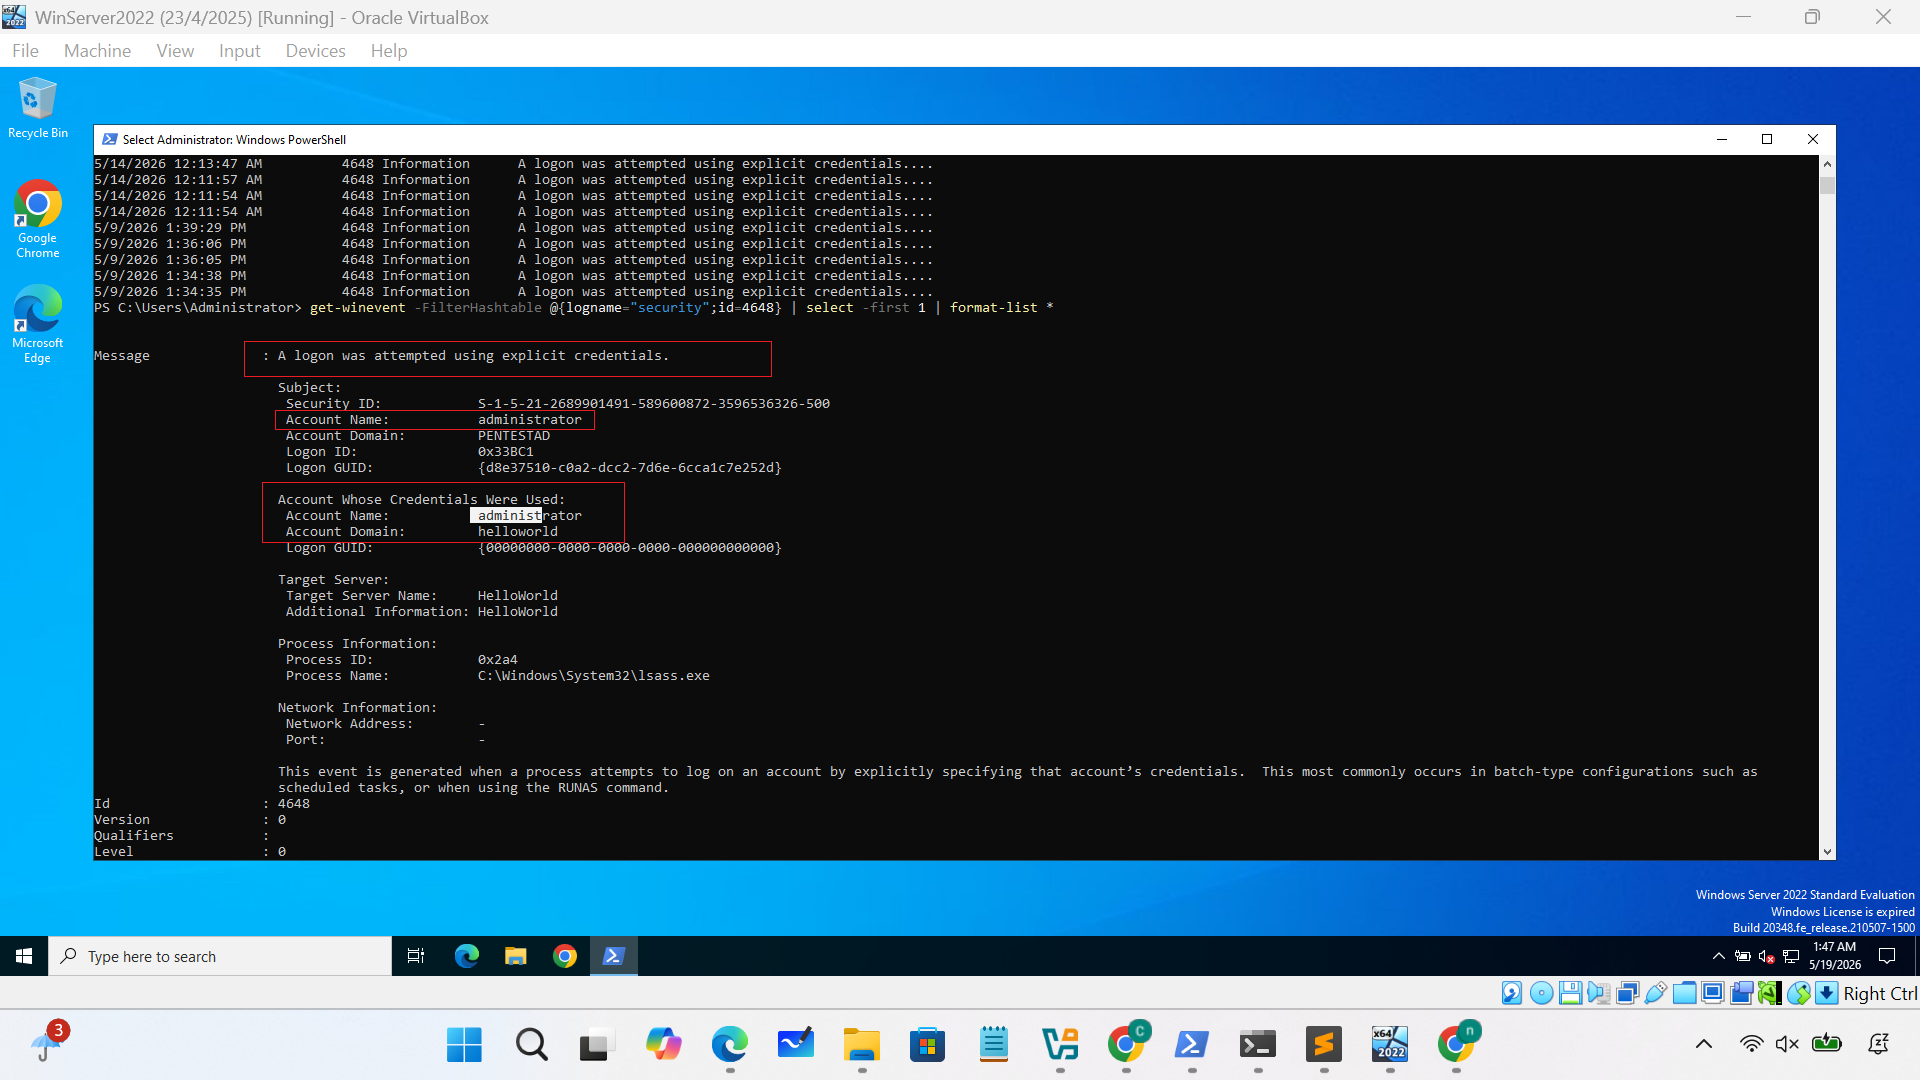
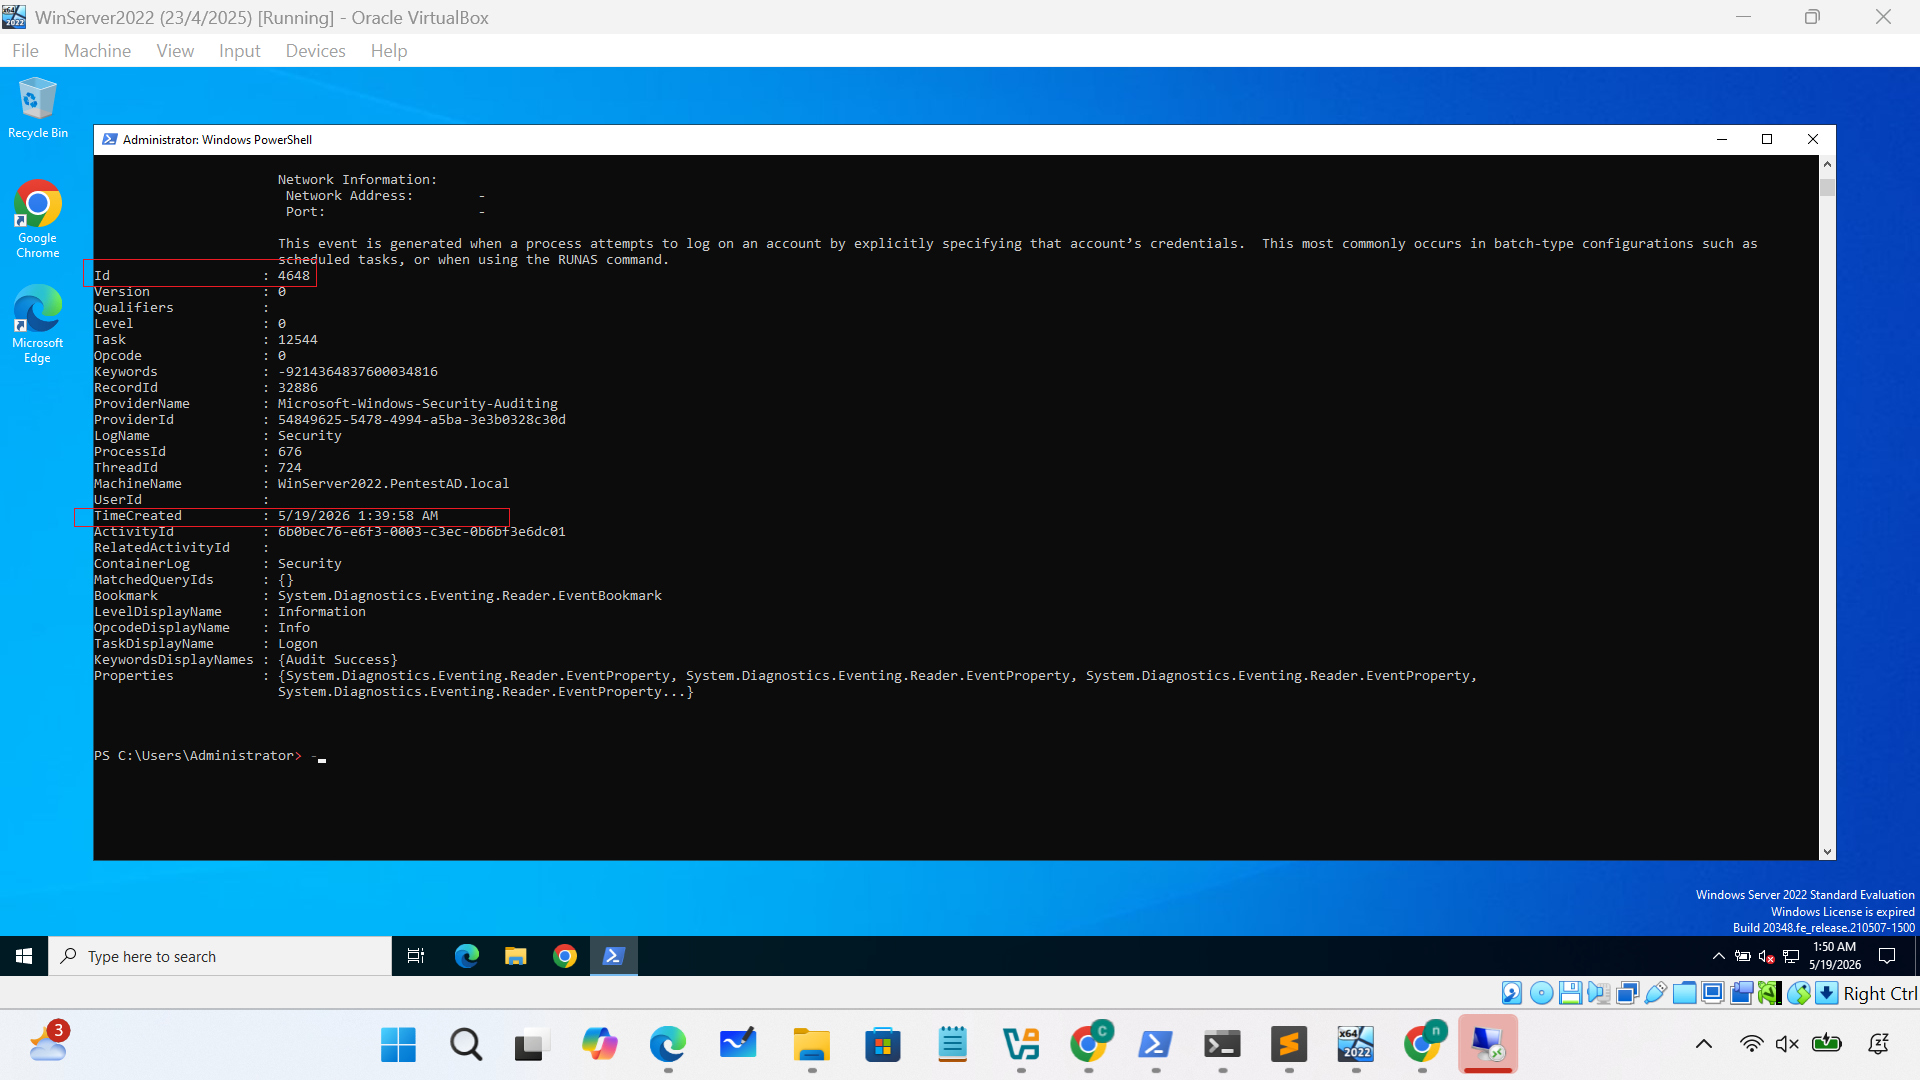
19/05/2026

diff --git a/01.Windows_Event_Analysis/02.Remote_deskop_protocol_analysis/RDP_analysis.md b/01.Windows_Event_Analysis/02.Remote_deskop_protocol_analysis/RDP_analysis.md
@@ -39,7 +39,6 @@ this ID is logged at the source machine.
 ![Image](images/4.png)
 ![Image](images/5.png)
 ![Image](images/6.png)
-![Image](images/7.png)
 - Switch on Attacker's machine, get EventID 4648
+![Image](images/7.png)
 ![Image](images/8.png)
-![Image](images/9.png)
